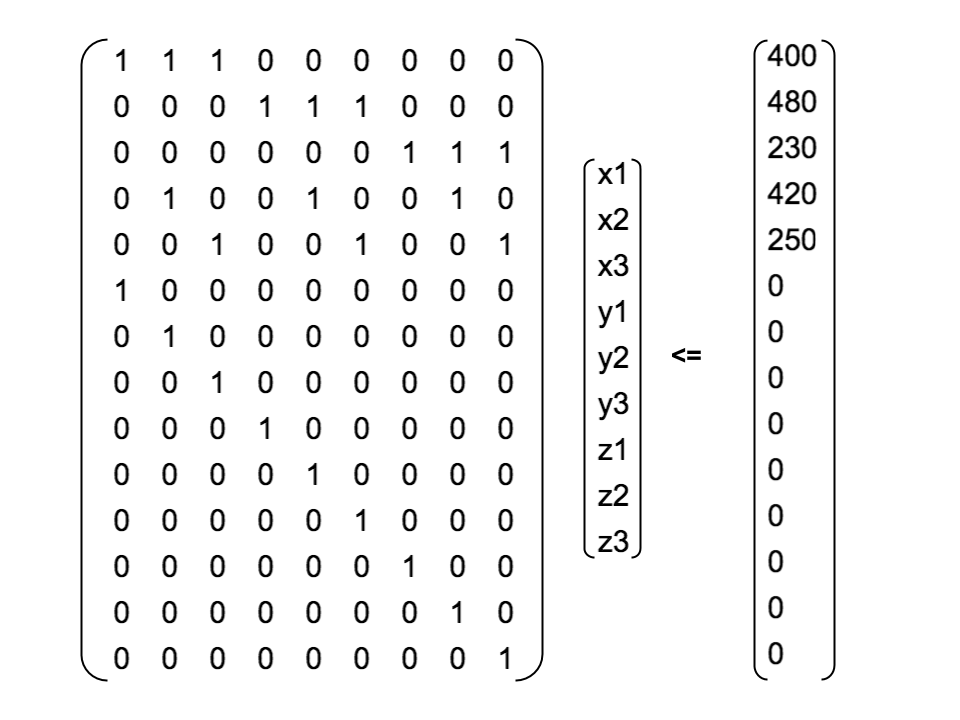
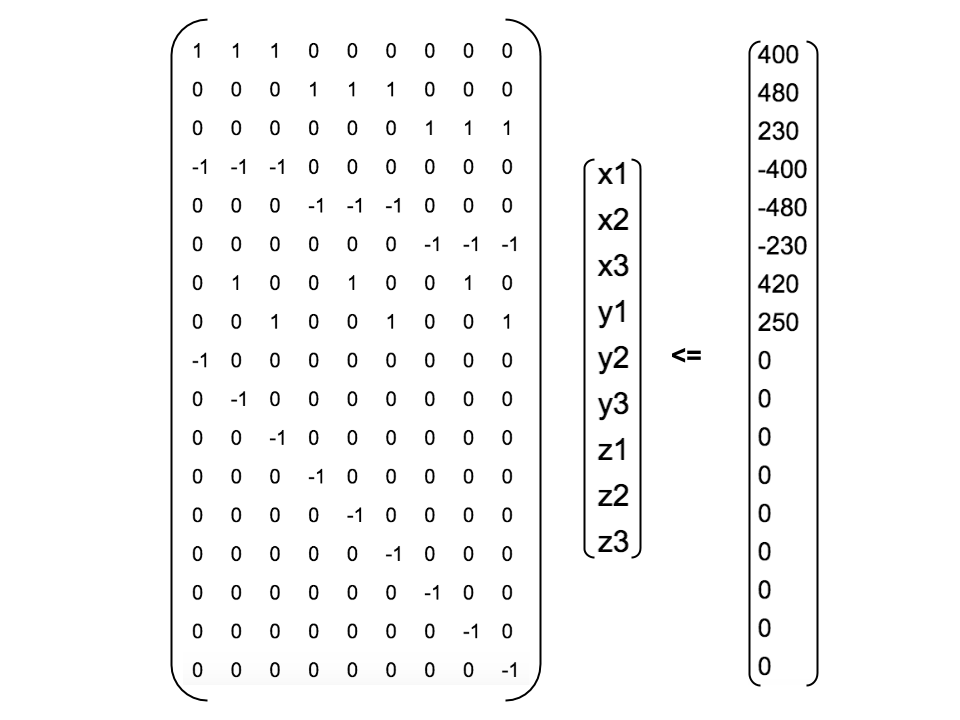
add tofu.py

diff --git a/project4/tofu.py b/project4/tofu.py
@@ -1,0 +1,32 @@
+from pulp import *
+
+prob = LpProblem("The Tofu Problem", LpMaximize)
+
+# Variables
+x1 = LpVariable("x1", 0)
+y1 = LpVariable("y1", 0)
+z1 = LpVariable("z1", 0)
+x2 = LpVariable("x2", 0)
+y2 = LpVariable("y2", 0)
+z2 = LpVariable("z2", 0)
+x3 = LpVariable("x3", 0)
+y3 = LpVariable("y3", 0)
+z3 = LpVariable("z3", 0)
+
+# Objective
+prob += 4*x1 + 12*x2 + 7*x3 + 8*y1 + 14*y2 + 11*y3 + 4*z1 + 13*z2 + 9*z3
+
+# Constraints
+prob += x1+x2+x3 == 400
+prob += y1+y2+y3 == 480
+prob += z1+z2+z3 == 230
+prob += x2+y2+z2 <= 420
+prob += x3+y3+z3 <= 250
+
+prob.solve()
+
+# Solution
+for v in prob.variables():
+   print v.name, "=", v.varValue
+
+print "objective=", value(prob.objective)
